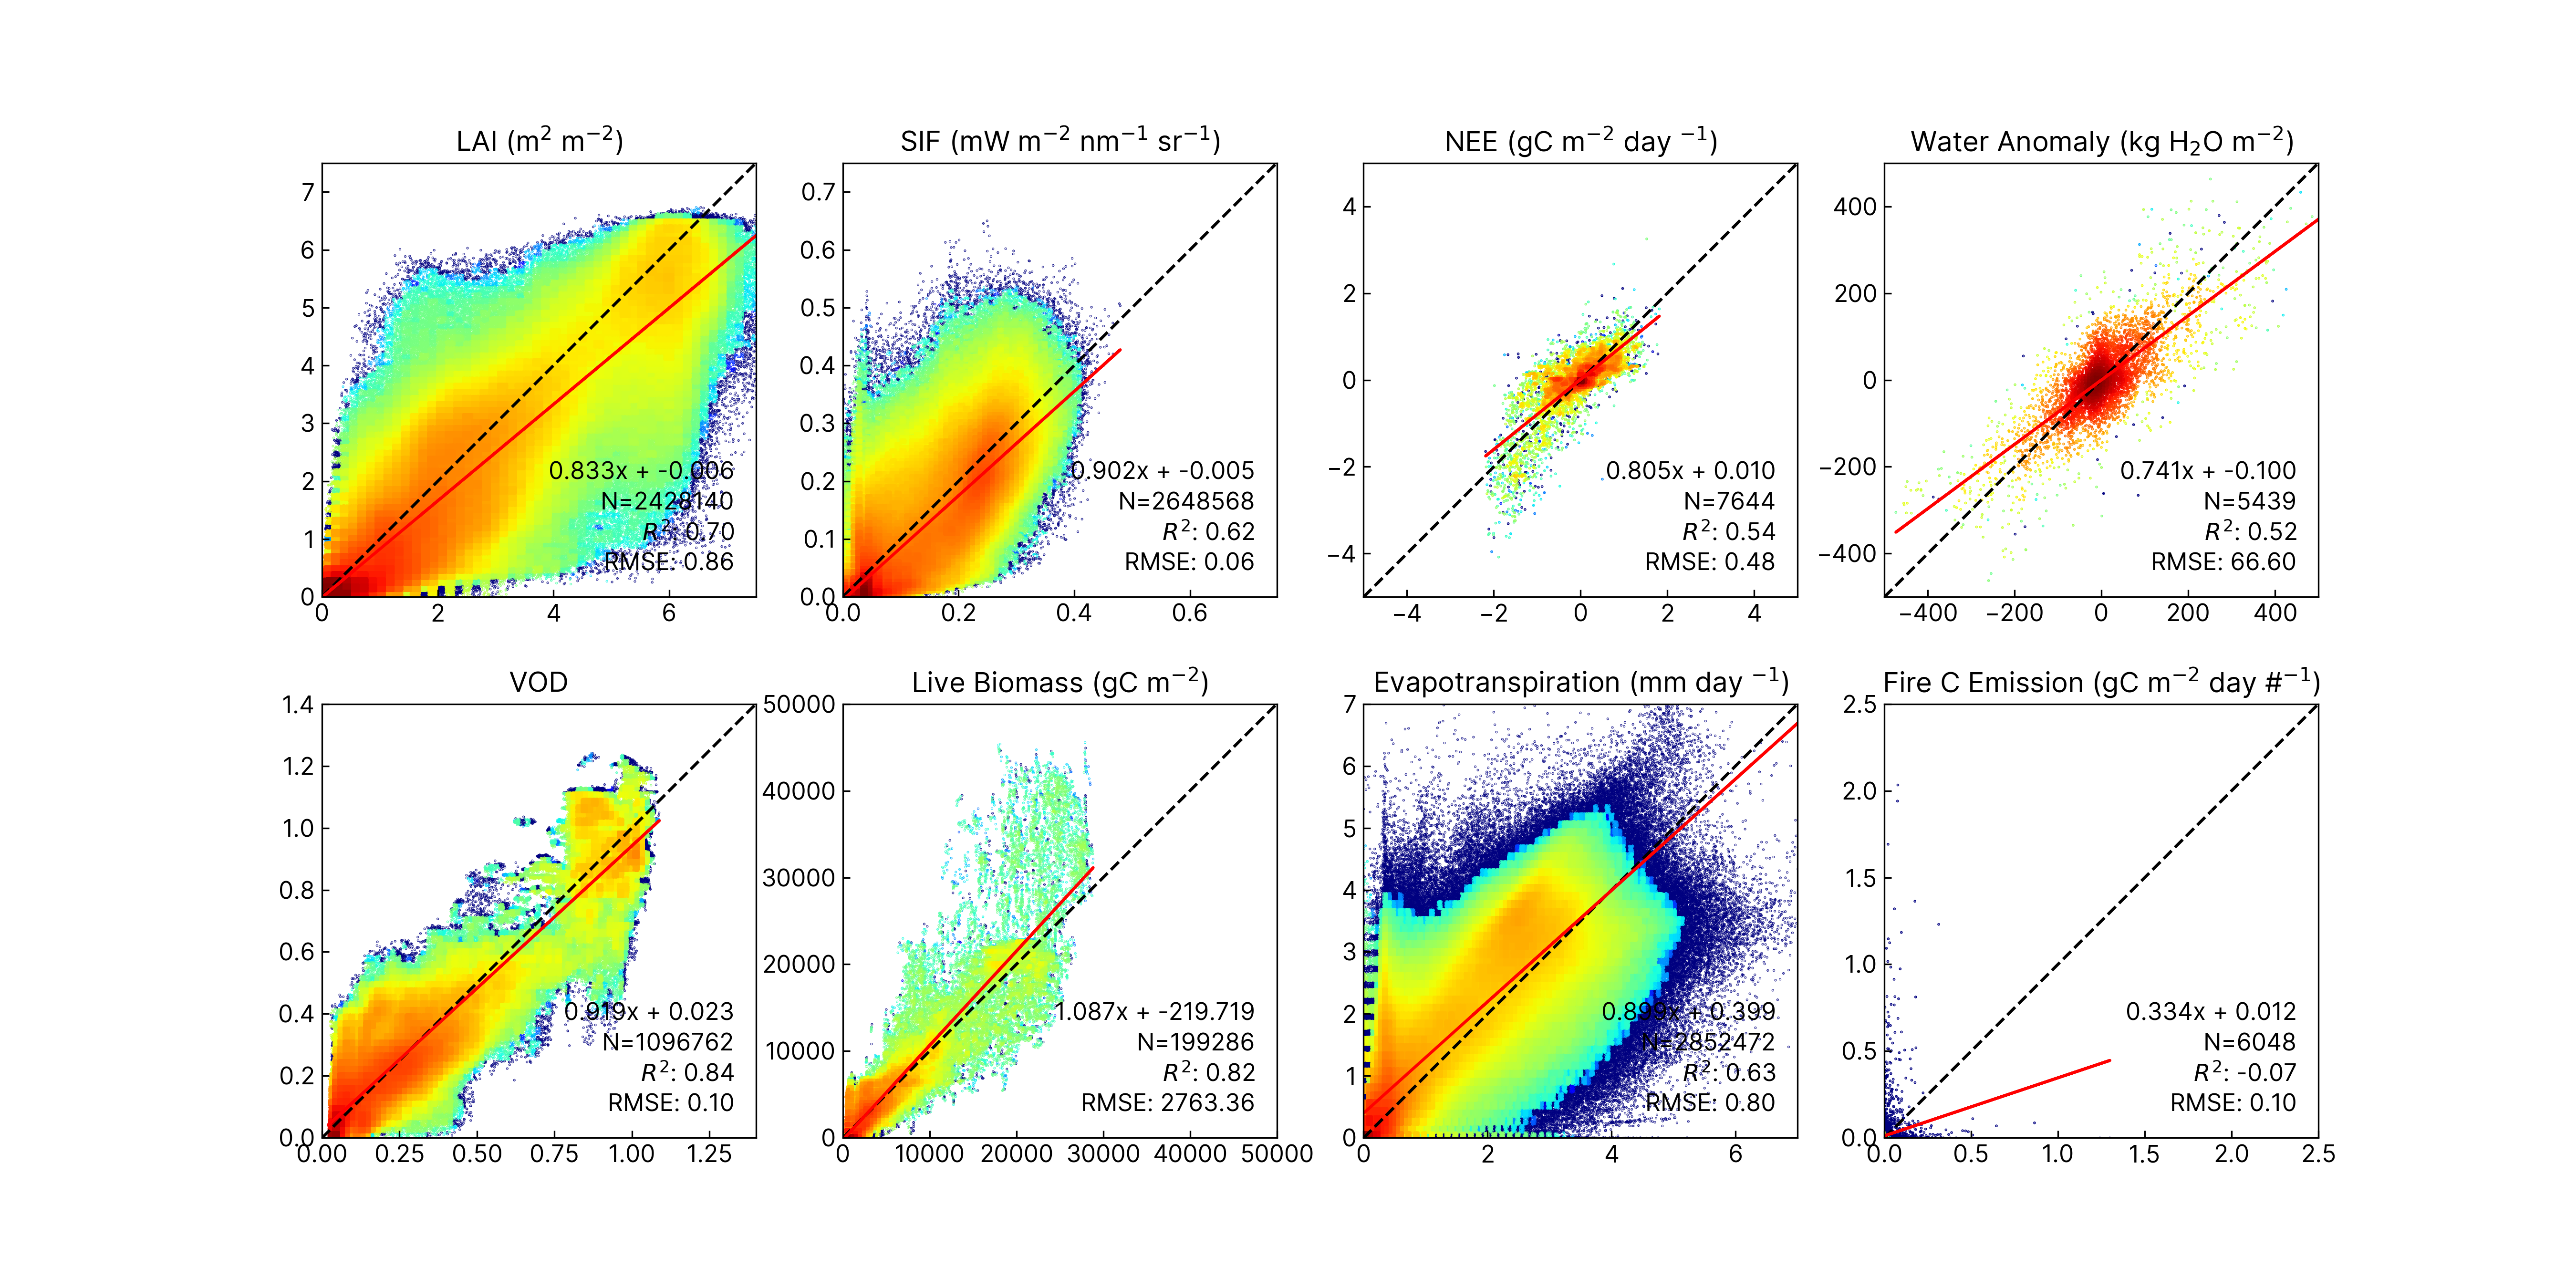
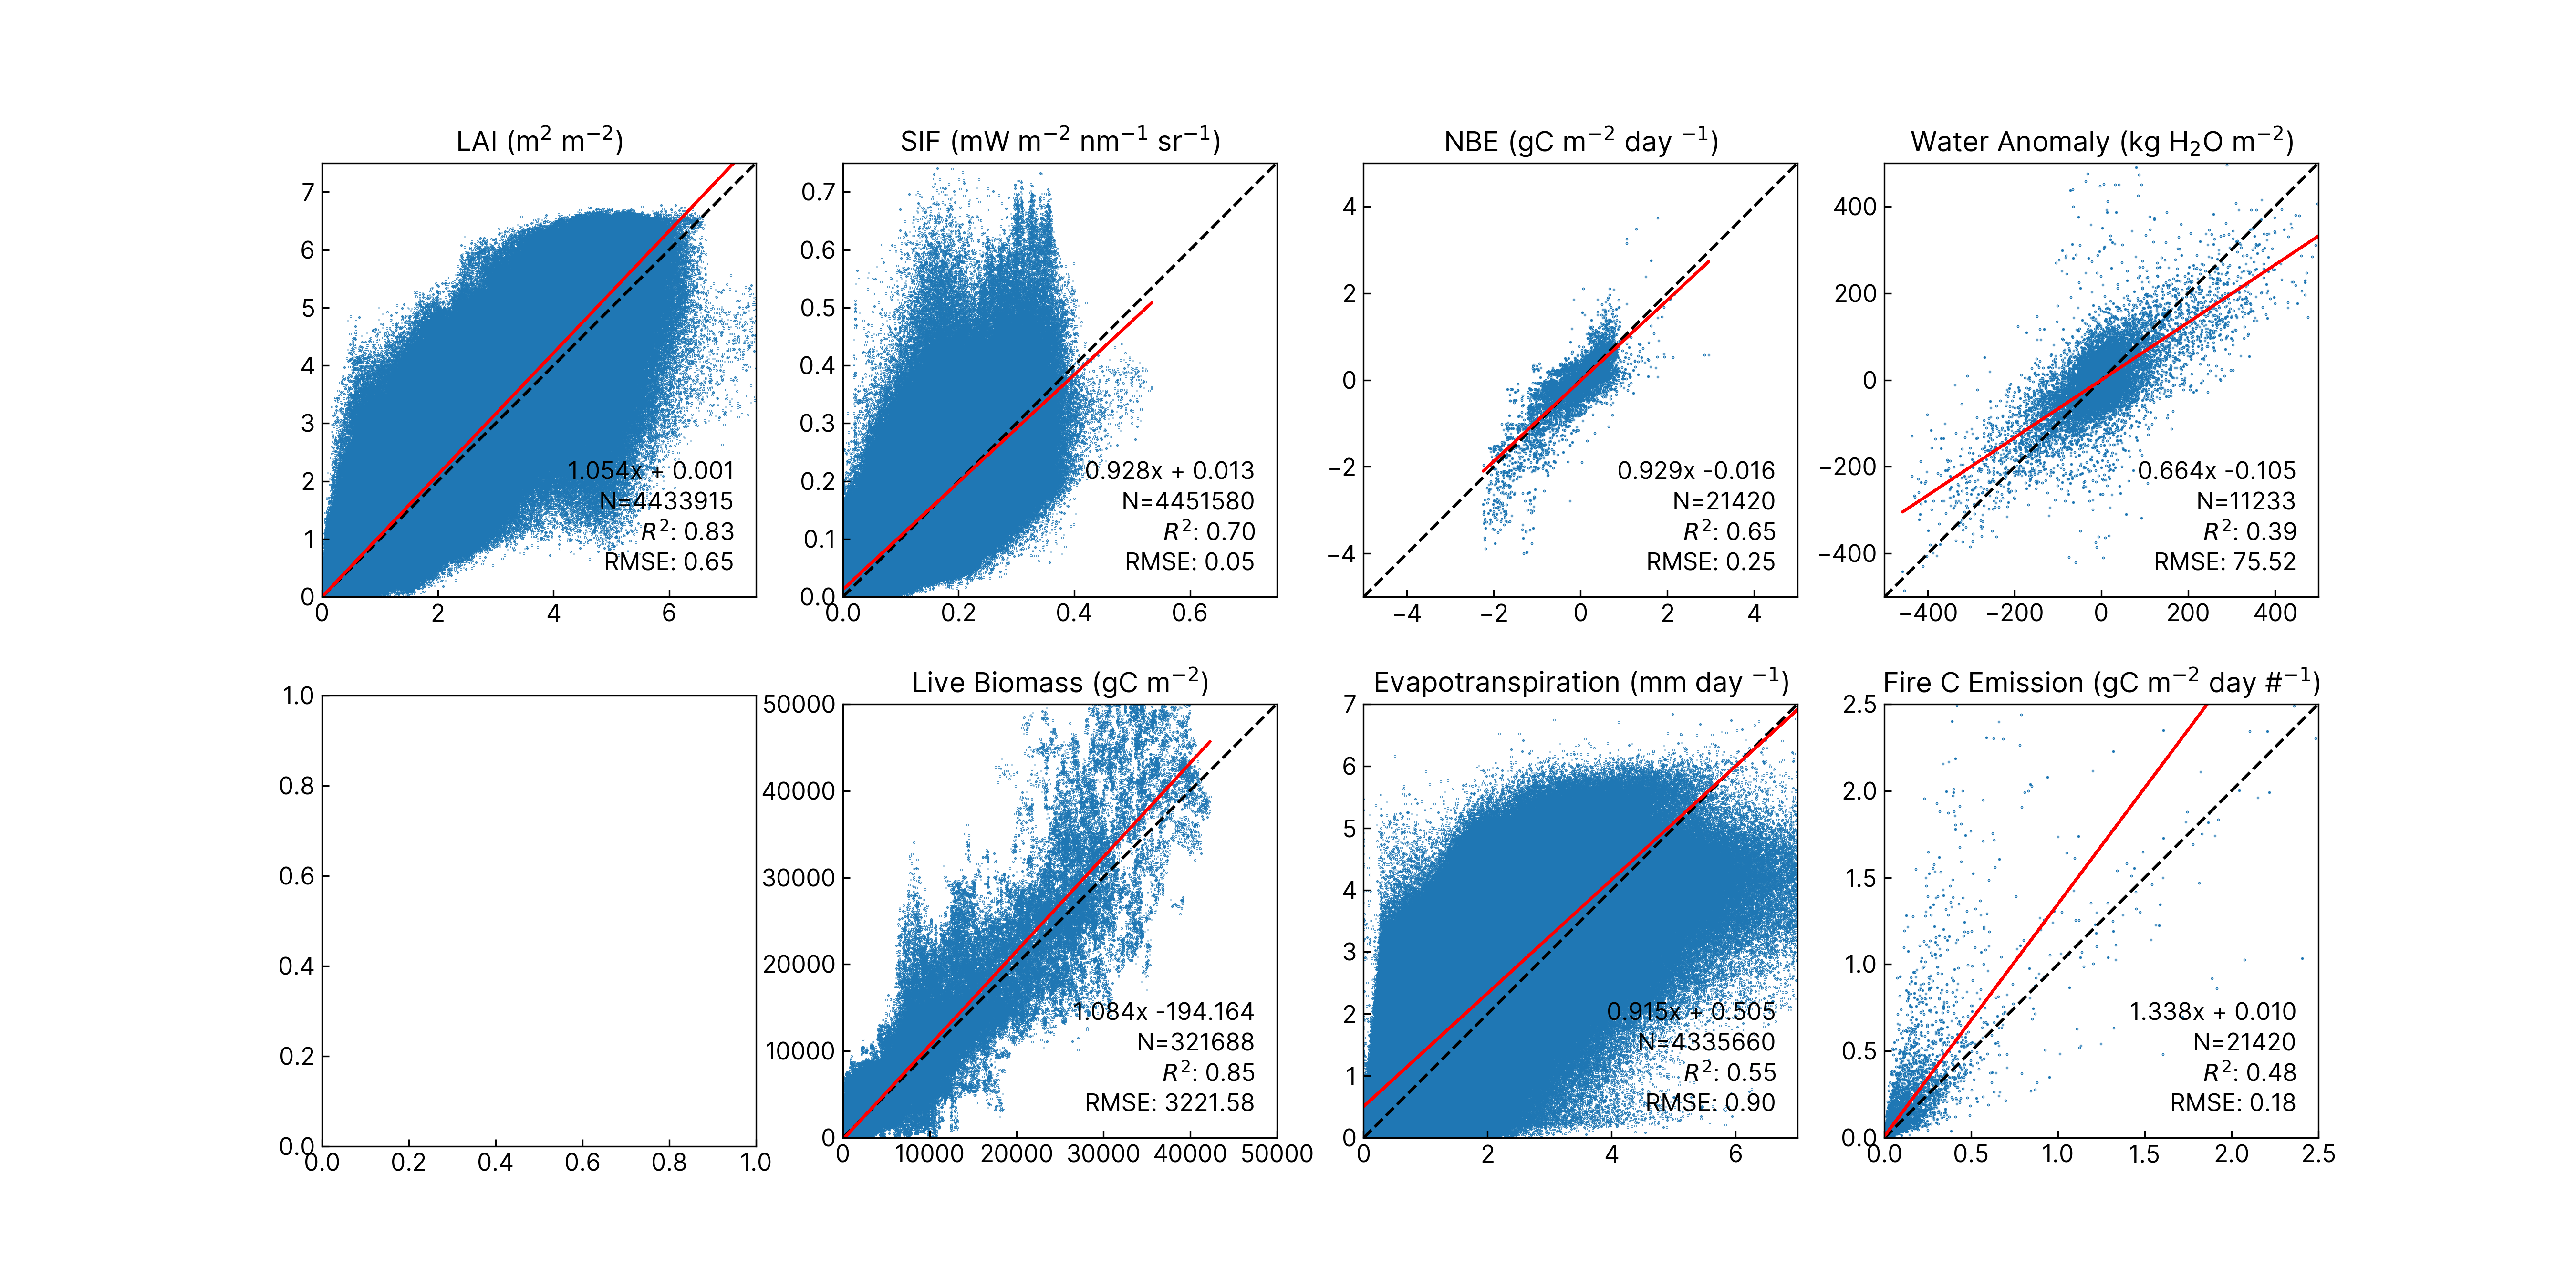
replaced stale example training checkpoint, this should not affect newly trained results.

diff --git a/README.md b/README.md
@@ -3,6 +3,8 @@ By Jianing Fang ([email redacted]), last revised Jan 17, 2025.
 
 This depository contains the source code for the DifferLand model described in the manuscript "*Differentiable Land Model Reveals Global Environmental Controls on Latent Ecological Functions*." This README file walks you through the process of installing and running the DifferLand package. 
 
+**Update, 2026-06-03**: The stale example training checkpoint .pickle file has been replaced; this issue did not affect newly trained results.
+
 ## Repository Structure
 - `DifferLand/`: the source code of the DifferLand model.
 - `experiments/`: contains the scripts for training the model, saving the results, and computing test statistics and SHAP values.